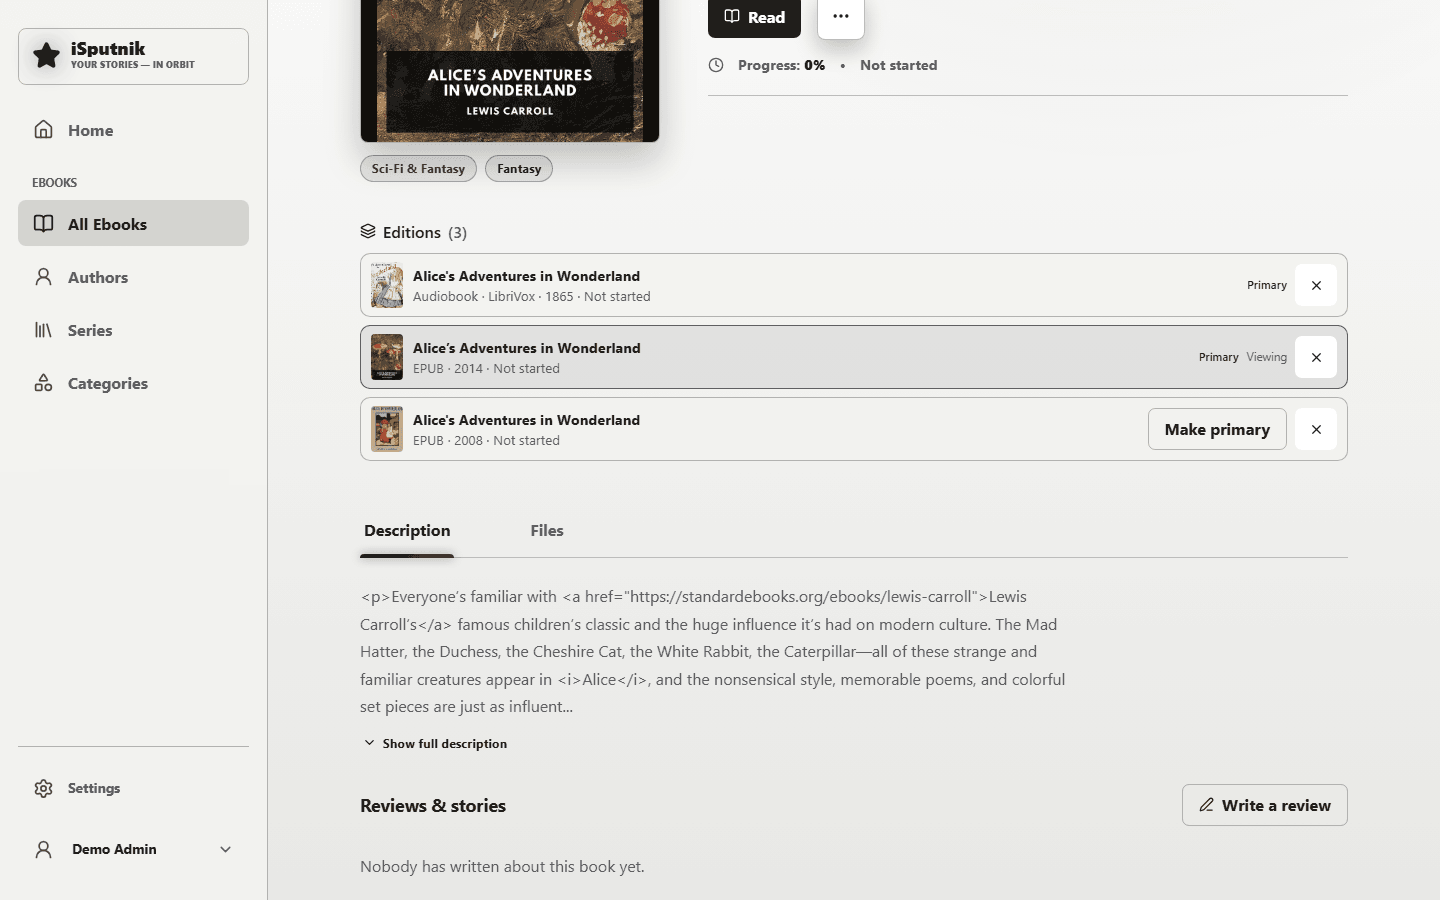
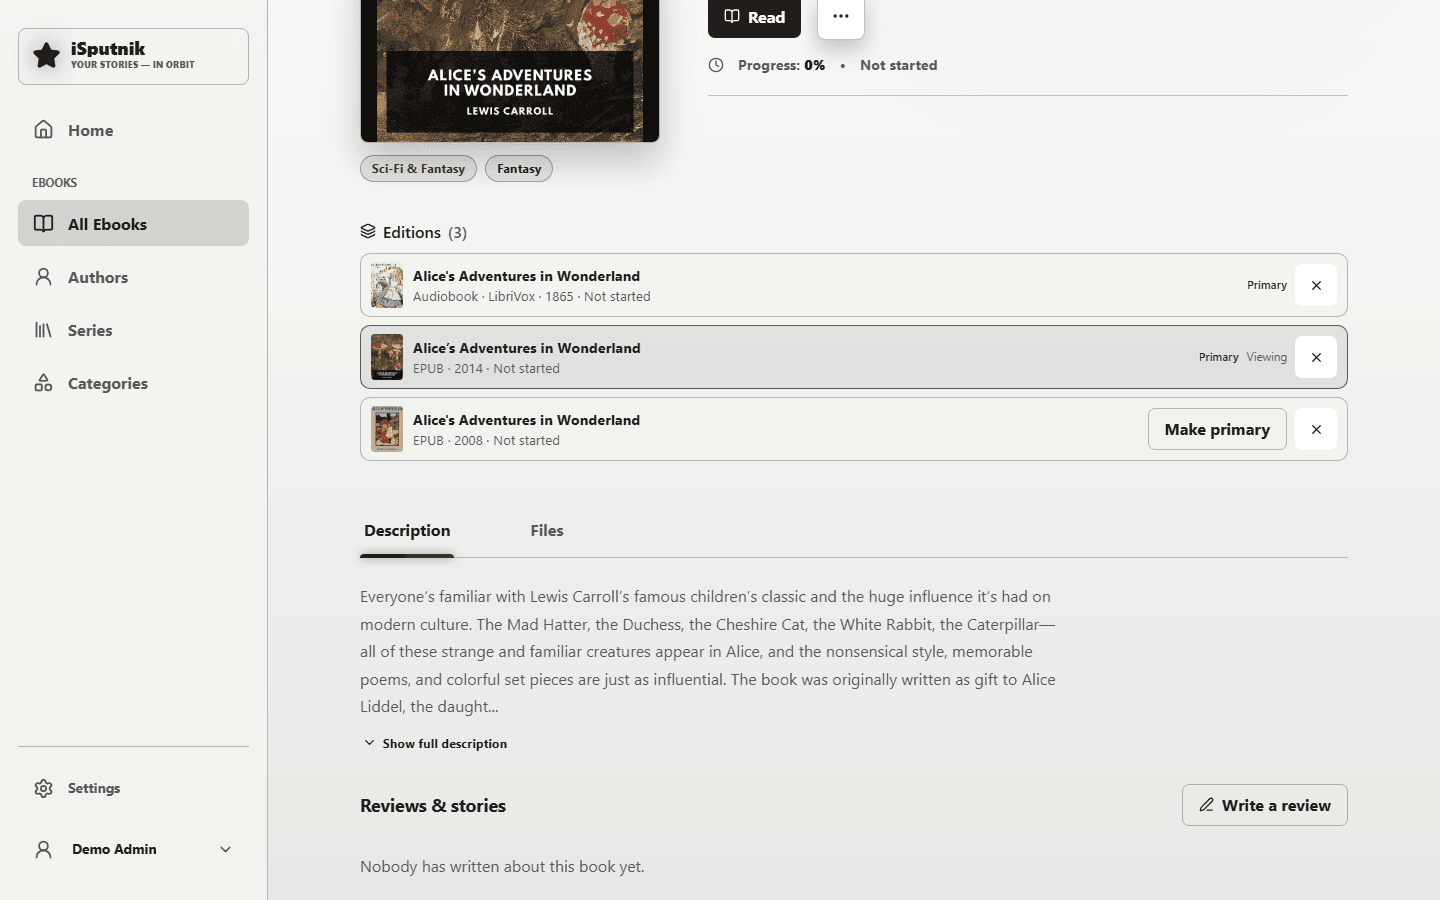
fix(ebook): a book's description is prose, not HTML source
Every Standard Ebooks import showed its description as markup — literally
"<p>Everyone's familiar with <a href="https://standardebooks.org/...">Lewis
Carroll</a>'s famous children's classic". All 24 ebook descriptions in the
demo library carried tags; nothing rendered them, so readers saw the angle
brackets.

dc:description is allowed to hold markup and a well-made EPUB uses it: the
file carries "&lt;p&gt;..." and decodeXml turns those entities back into real
tags on the way in. So the tags have to be removed AFTER decoding — stripping
first would leave the escaped ones untouched, which is the trap that made this
look like it was already handled. FB2 annotations have been stripped all
along; this is the same treatment for EPUB.

Whether a tag leaves a space behind depends on what it was. A block tag has to
become one, or "<p>One</p><p>Two</p>" reads as "OneTwo"; an inline tag must
not, or "<a>Lewis Carroll</a>'s" comes out as "Lewis Carroll 's". The first
attempt replaced every tag with a space and produced exactly that, which the
test caught.

Plain text is what the field is for: the book page prints it and the OPDS feed
re-escapes it, so keeping the markup only ever meant displaying it.

Existing rows are fixed by a rescan, which re-derives scanned metadata as
usual. extractEpubMetadata is exported so the new test can build a minimal
EPUB and assert on what comes out.

Changed region(s): [[0.25, 0.6533, 0.75, 0.8089], [0.4062, 0.0311, 0.4375, 0.0622], [0.25, 0.3111, 0.2812, 0.3422]]

diff --git a/apps/server/test/ebook-epub-metadata.test.ts b/apps/server/test/ebook-epub-metadata.test.ts
@@ -1,0 +1,78 @@
+import fs from "node:fs";
+import os from "node:os";
+import path from "node:path";
+import AdmZip from "adm-zip";
+import { afterEach, describe, expect, it } from "vitest";
+import { extractEpubMetadata } from "../src/modules/library/ebook/scanner.js";
+
+// Builds the smallest EPUB the extractor will read: a container pointing at an
+// OPF, and the OPF itself. `metadata` is spliced in verbatim so a test can put
+// exactly the bytes a real file would carry.
+const made: string[] = [];
+function epub(metadata: string): string {
+  const opf = `<?xml version="1.0" encoding="utf-8"?>
+<package xmlns="http://www.idpf.org/2007/opf" version="3.0">
+  <metadata xmlns:dc="http://purl.org/dc/elements/1.1/">${metadata}</metadata>
+</package>`;
+  const zip = new AdmZip();
+  zip.addFile("META-INF/container.xml", Buffer.from(
+    `<container><rootfiles><rootfile full-path="content.opf"/></rootfiles></container>`, "utf8"
+  ));
+  zip.addFile("content.opf", Buffer.from(opf, "utf8"));
+  const file = path.join(fs.mkdtempSync(path.join(os.tmpdir(), "epubmeta-")), "book.epub");
+  zip.writeZip(file);
+  made.push(path.dirname(file));
+  return file;
+}
+
+afterEach(() => {
+  while (made.length) fs.rmSync(made.pop()!, { recursive: true, force: true });
+});
+
+describe("extractEpubMetadata", () => {
+  it("reads the plain fields", () => {
+    const meta = extractEpubMetadata(epub(`
+      <dc:title>Alice's Adventures in Wonderland</dc:title>
+      <dc:creator>Lewis Carroll</dc:creator>
+      <dc:language>en</dc:language>
+      <dc:subject>Fantasy</dc:subject>
+      <dc:date>1865-01-01</dc:date>`));
+    expect(meta?.title).toBe("Alice's Adventures in Wonderland");
+    expect(meta?.authors).toEqual(["Lewis Carroll"]);
+    expect(meta?.language).toBe("en");
+    expect(meta?.subjects).toEqual(["Fantasy"]);
+    expect(meta?.year).toBe(1865);
+  });
+
+  // The bug this test was written for: Standard Ebooks escapes a paragraph of
+  // HTML into dc:description, entity decoding turned it back into real tags, and
+  // the book page printed them as visible angle brackets.
+  it("strips HTML that dc:description carried as entities", () => {
+    const meta = extractEpubMetadata(epub(
+      `<dc:description>&lt;p&gt;Everyone's familiar with `
+      + `&lt;a href="https://standardebooks.org/ebooks/lewis-carroll"&gt;Lewis Carroll&lt;/a&gt;'s `
+      + `famous children's classic, and the &lt;i&gt;nonsensical&lt;/i&gt; style.&lt;/p&gt;</dc:description>`
+    ));
+    expect(meta?.description).toBe(
+      "Everyone's familiar with Lewis Carroll's famous children's classic, and the nonsensical style."
+    );
+    expect(meta?.description).not.toMatch(/[<>]/);
+  });
+
+  it("strips markup that dc:description carried as real tags", () => {
+    const meta = extractEpubMetadata(epub(
+      `<dc:description><![CDATA[<p>A book <b>worth</b> reading.</p>]]></dc:description>`
+    ));
+    expect(meta?.description).toBe("A book worth reading.");
+  });
+
+  it("leaves an already-plain description alone", () => {
+    const meta = extractEpubMetadata(epub(`<dc:description>Just a sentence.</dc:description>`));
+    expect(meta?.description).toBe("Just a sentence.");
+  });
+
+  it("reports no description rather than an empty one when the markup was all there was", () => {
+    const meta = extractEpubMetadata(epub(`<dc:description>&lt;p&gt;&lt;/p&gt;</dc:description>`));
+    expect(meta?.description).toBeNull();
+  });
+});

diff --git a/apps/server/src/modules/library/ebook/scanner.ts b/apps/server/src/modules/library/ebook/scanner.ts
@@ -85,6 +85,39 @@ function escapeRegex(value: string): string {
   return value.replace(/[.*+?^${}()|[\]\\]/g, "\\$&");
 }
 
+/** Drop markup from a value that has already been entity-decoded.
+ *
+ *  `dc:description` is allowed to hold markup, and a well-made EPUB uses it:
+ *  Standard Ebooks escapes a whole paragraph of HTML into the element, so the
+ *  file carries `&lt;p&gt;Everyone's familiar with &lt;a href="…"&gt;…`. decodeXml
+ *  turns those entities back into real tags, which is why the tags have to come
+ *  out AFTER it rather than before — stripping first would leave the escaped
+ *  ones untouched, and they would reach the page as visible angle brackets.
+ *
+ *  Plain text is what the description is for. Nothing downstream renders it as
+ *  HTML — the book page prints it and the OPDS feed re-escapes it — so keeping
+ *  the markup only ever meant showing it. FB2 annotations have been stripped
+ *  this way all along; this is the same treatment for EPUB. */
+function stripMarkup(value: string | null): string | null {
+  if (value == null) return null;
+  // Whether a tag leaves a space behind depends on what it was. A block tag has
+  // to become one — "<p>One</p><p>Two</p>" is two sentences, not "OneTwo" — but
+  // an inline tag must not, or "<a>Lewis Carroll</a>'s" comes out as
+  // "Lewis Carroll 's".
+  const text = value
+    .replace(/<\/?([a-zA-Z][\w-]*)[^>]*>/g, (_, tag: string) =>
+      INLINE_TAGS.has(tag.toLowerCase()) ? "" : " ")
+    .replace(/<[^>]*>/g, " ")            // comments, doctypes, anything malformed
+    .replace(/\s+/g, " ")
+    .trim();
+  return text || null;
+}
+
+const INLINE_TAGS = new Set([
+  "a", "abbr", "b", "cite", "code", "em", "i", "q", "s", "small",
+  "span", "strong", "sub", "sup", "u", "var"
+]);
+
 function firstMatch(source: string, re: RegExp): string | null {
   return decodeXml(source.match(re)?.[1] ?? null);
 }
@@ -93,7 +126,7 @@ function allMatches(source: string, re: RegExp): string[] {
   return [...source.matchAll(re)].map((m) => decodeXml(m[1])).filter((v): v is string => Boolean(v));
 }
 
-function extractEpubMetadata(filePath: string): EbookMetadata | null {
+export function extractEpubMetadata(filePath: string): EbookMetadata | null {
   let zip: AdmZip;
   try {
     zip = new AdmZip(filePath);
@@ -111,7 +144,7 @@ function extractEpubMetadata(filePath: string): EbookMetadata | null {
   const title = firstMatch(opf, /<dc:title[^>]*>([\s\S]*?)<\/dc:title>/i);
   const authors = allMatches(opf, /<dc:creator[^>]*>([\s\S]*?)<\/dc:creator>/gi);
   const language = firstMatch(opf, /<dc:language[^>]*>([\s\S]*?)<\/dc:language>/i);
-  const description = firstMatch(opf, /<dc:description[^>]*>([\s\S]*?)<\/dc:description>/i);
+  const description = stripMarkup(firstMatch(opf, /<dc:description[^>]*>([\s\S]*?)<\/dc:description>/i));
   const subjects = allMatches(opf, /<dc:subject[^>]*>([\s\S]*?)<\/dc:subject>/gi);
   const dateRaw = firstMatch(opf, /<dc:date[^>]*>([\s\S]*?)<\/dc:date>/i);
   const yearNum = dateRaw ? parseInt(dateRaw.slice(0, 4), 10) : NaN;
